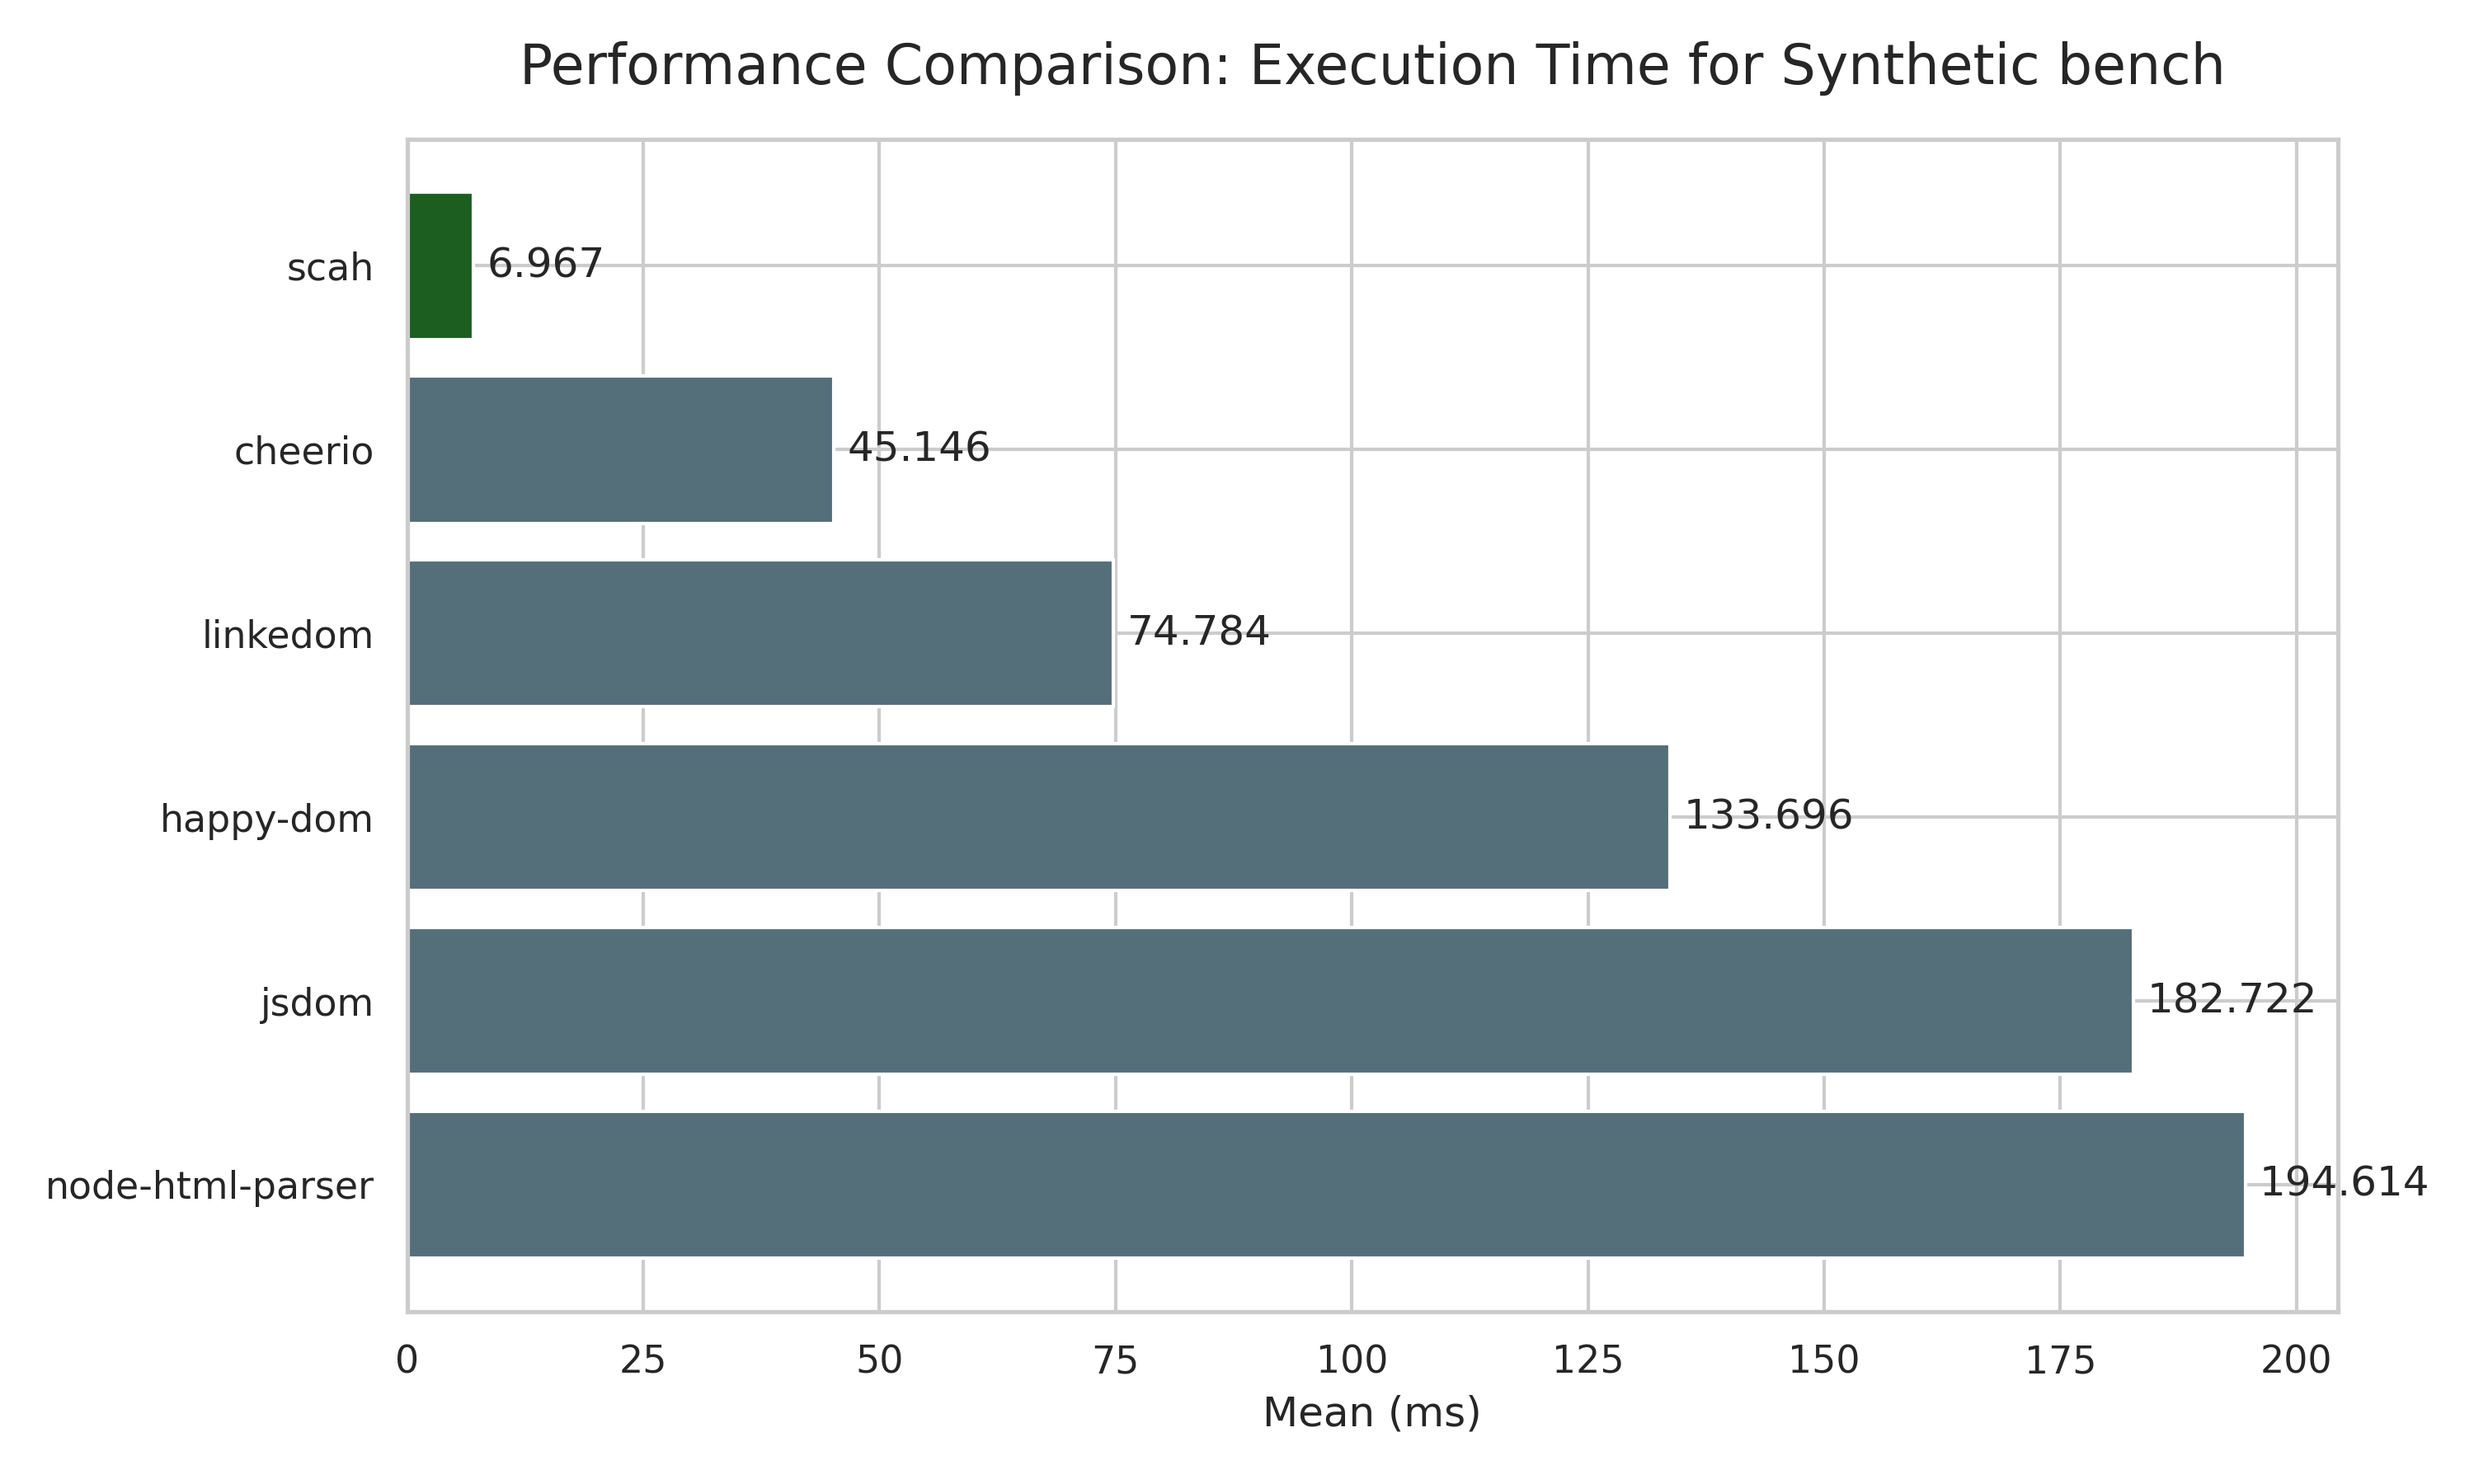
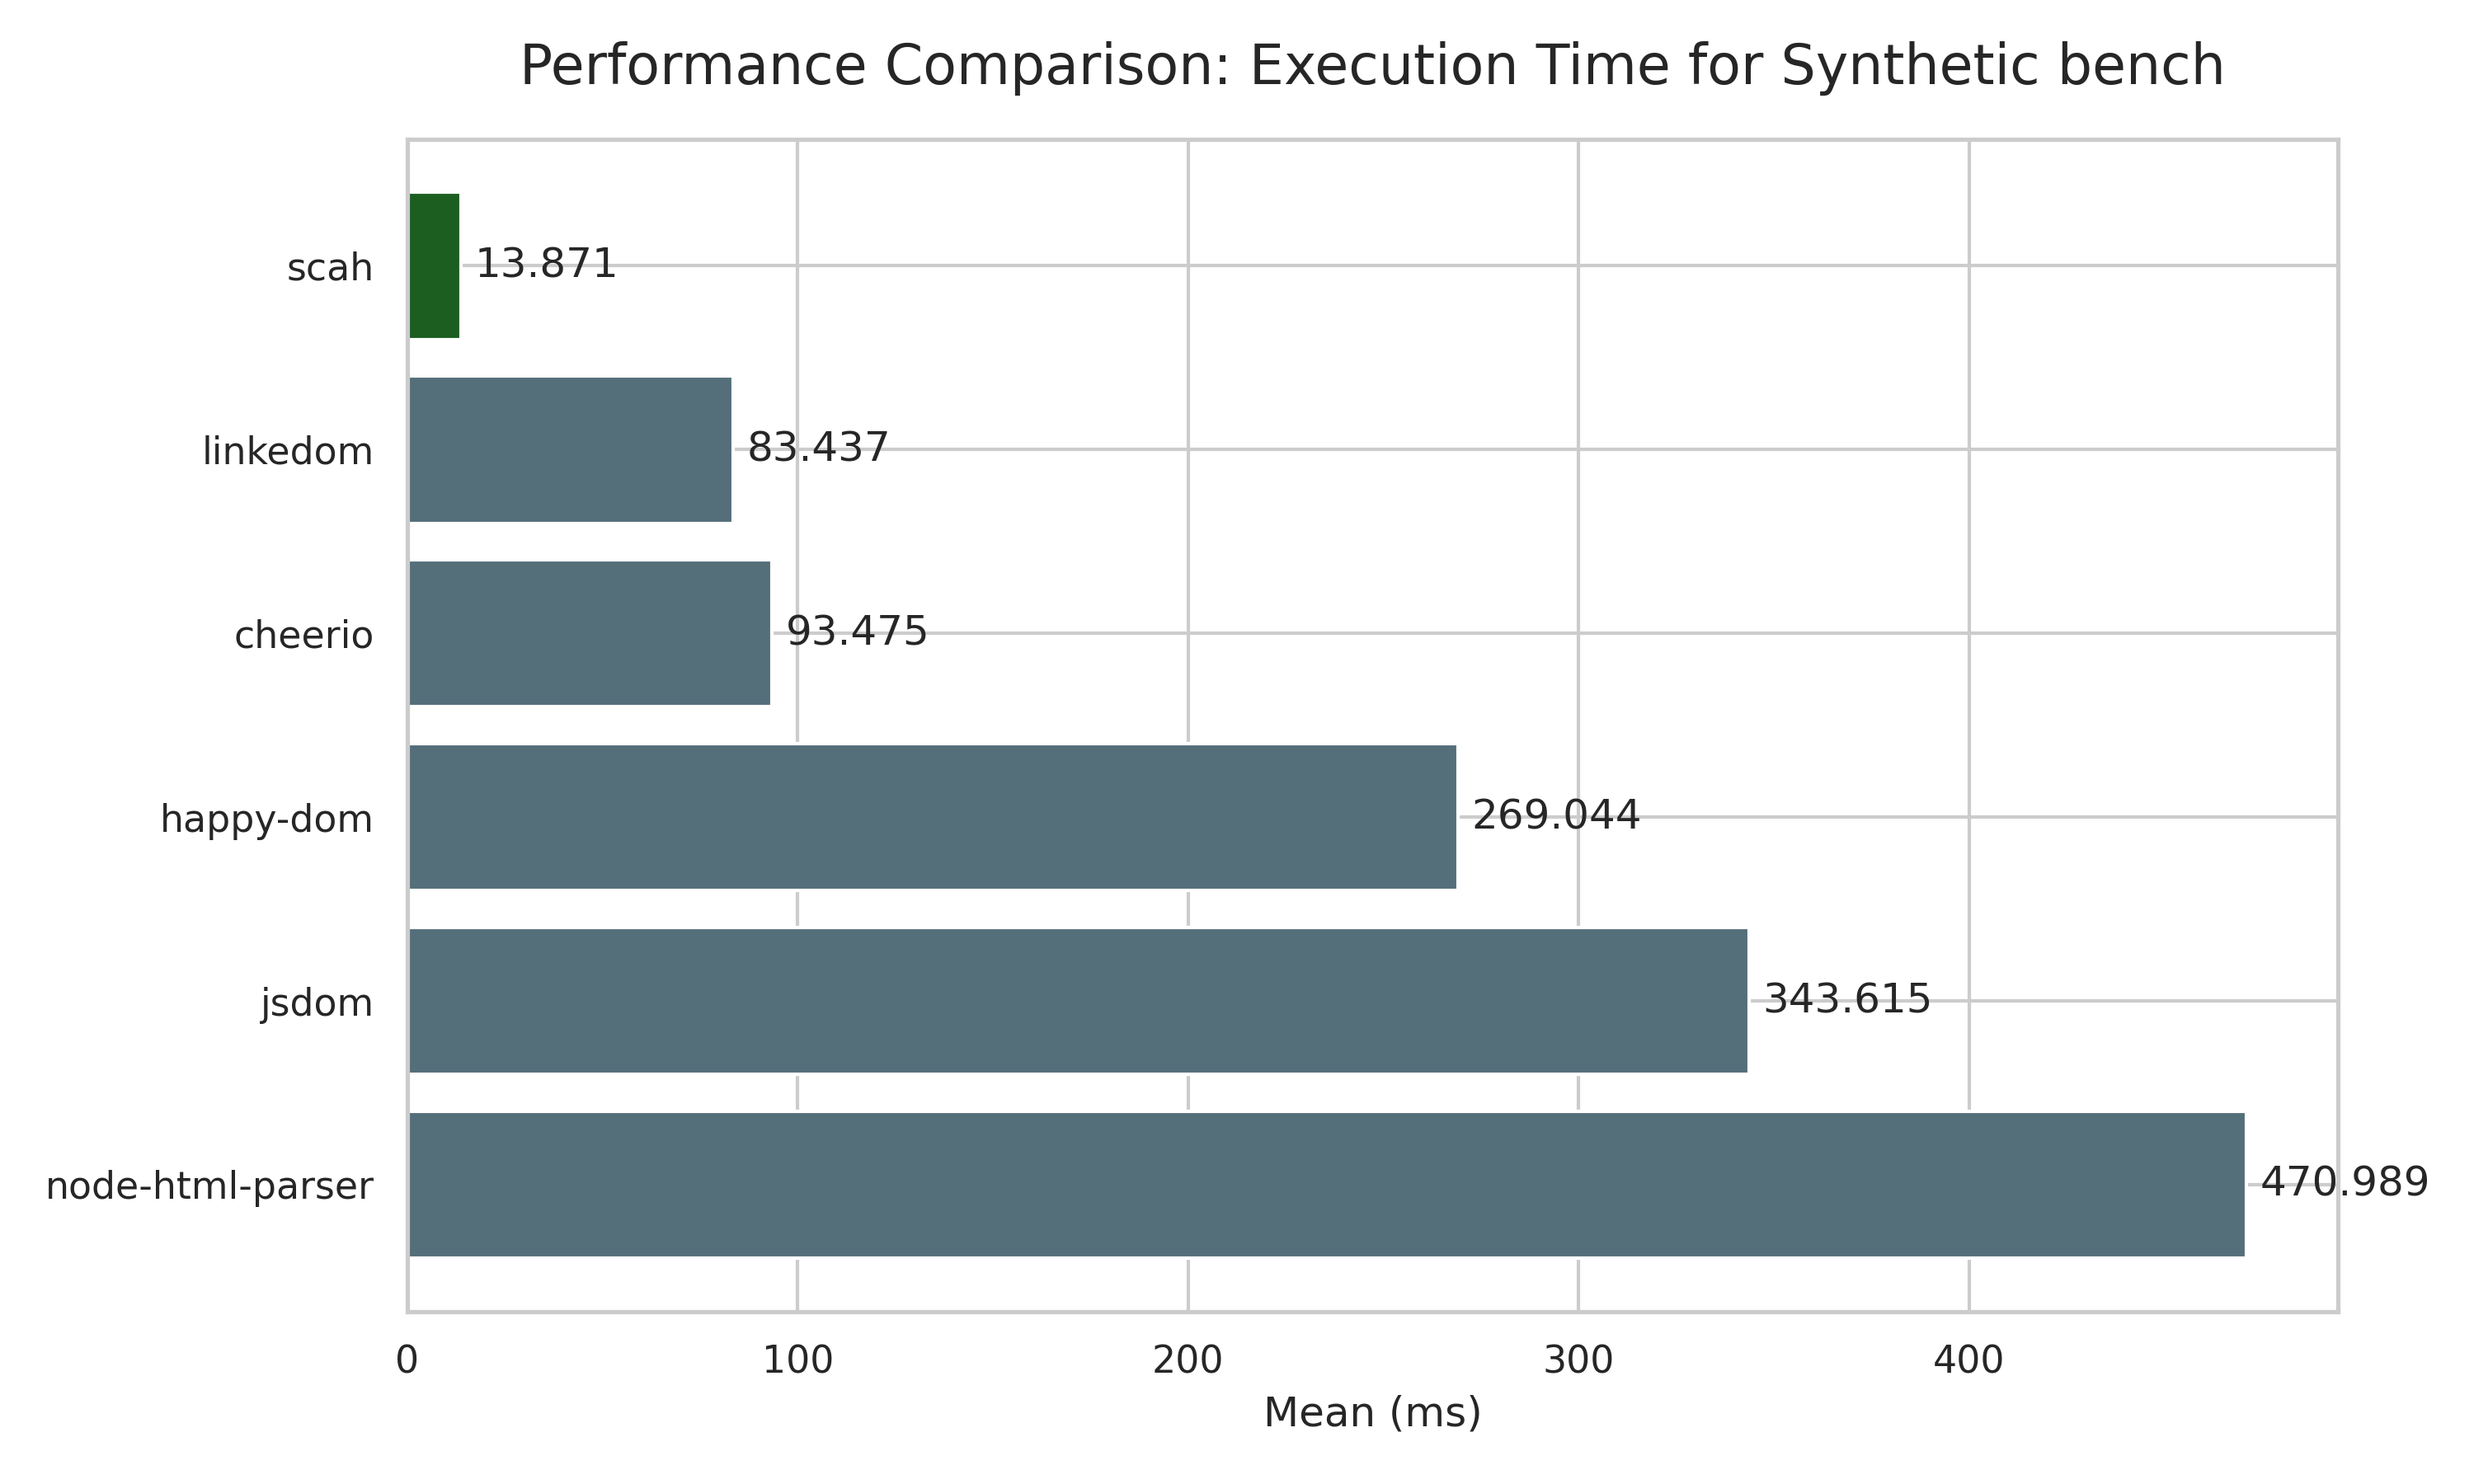
Benchmarks should be uniform for Python, JavaScript, and Rust

diff --git a/crates/bindings/scah-node/benchmark/bench.ts b/crates/bindings/scah-node/benchmark/bench.ts
@@ -24,6 +24,17 @@ type BenchmarkCase = {
   first: (html: string, query: string) => unknown | null | undefined
 }
 
+type ElementSnapshot = {
+  innerHtml?: string | null
+  textContent?: string | null
+}
+
+type NestedProductSnapshot = ElementSnapshot & {
+  title: ElementSnapshot | null
+  rating: ElementSnapshot | null
+  description: ElementSnapshot | null
+}
+
 type MitataRun = {
   name: string
   stats?: {
@@ -313,6 +324,69 @@ function readElement(element: unknown) {
   }
 }
 
+function snapshotElement(element: unknown): ElementSnapshot | null {
+  if (!element || typeof element !== 'object') {
+    return null
+  }
+
+  if ('innerHtml' in element || 'textContent' in element) {
+    return {
+      innerHtml:
+        'innerHtml' in element && typeof element.innerHtml !== 'undefined'
+          ? (element.innerHtml as string | null)
+          : null,
+      textContent:
+        'textContent' in element && typeof element.textContent !== 'undefined'
+          ? (element.textContent as string | null)
+          : null,
+    }
+  }
+
+  if ('innerHTML' in element || 'textContent' in element) {
+    return {
+      innerHtml:
+        'innerHTML' in element && typeof element.innerHTML !== 'undefined'
+          ? (element.innerHTML as string | null)
+          : null,
+      textContent:
+        'textContent' in element && typeof element.textContent !== 'undefined'
+          ? (element.textContent as string | null)
+          : null,
+    }
+  }
+
+  return null
+}
+
+function consumeNestedProducts(products: NestedProductSnapshot[]) {
+  for (const product of products) {
+    readElement(product)
+    readElement(product.title)
+    readElement(product.rating)
+    readElement(product.description)
+  }
+}
+
+function snapshotNestedProducts<T>(
+  products: Iterable<T>,
+  selectChild: (product: T, selector: string) => unknown | null | undefined,
+) {
+  const snapshots: NestedProductSnapshot[] = []
+
+  for (const product of products) {
+    const productSnapshot = snapshotElement(product)
+    snapshots.push({
+      innerHtml: productSnapshot?.innerHtml ?? null,
+      textContent: productSnapshot?.textContent ?? null,
+      title: snapshotElement(selectChild(product, 'h1')),
+      rating: snapshotElement(selectChild(product, '.rating')),
+      description: snapshotElement(selectChild(product, '.description')),
+    })
+  }
+
+  return snapshots
+}
+
 function registerSimpleAllBenchmarks() {
   group('Simple Selection', () => {
     for (const [name, benchmarkCase] of Object.entries(CASES)) {
@@ -367,79 +441,73 @@ function registerNestedBenchmarks() {
         .build()
       const store = parse(PRODUCT_HTML, [compiledQuery])
       const products = store.get('.product') ?? []
-
-      for (const product of products) {
-        readElement(product)
-        consumeElements(product.get('> h1'))
-        consumeElements(product.get('> .rating'))
-        consumeElements(product.get('> .description'))
-      }
+      const snapshots = products.map((product) => ({
+        innerHtml: product.innerHtml,
+        textContent: product.textContent,
+        title: snapshotElement(product.get('> h1')[0]),
+        rating: snapshotElement(product.get('> .rating')[0]),
+        description: snapshotElement(product.get('> .description')[0]),
+      }))
+      consumeNestedProducts(snapshots)
     })
 
     bench('cheerio', () => {
       const $ = cheerio.load(PRODUCT_HTML)
-      for (const product of $('.product').toArray()) {
-        const node = $(product)
-        void node.attr('class')
-        void node.html()
-        void node.text()
-        void node.children('h1').first().text()
-        void node.children('.rating').first().text()
-        void node.children('.description').first().text()
-      }
+      const snapshots = $('.product')
+        .toArray()
+        .map((product) => {
+          const node = $(product)
+          return {
+            innerHtml: node.html(),
+            textContent: node.text(),
+            title: {
+              innerHtml: node.children('h1').first().html(),
+              textContent: node.children('h1').first().text(),
+            },
+            rating: {
+              innerHtml: node.children('.rating').first().html(),
+              textContent: node.children('.rating').first().text(),
+            },
+            description: {
+              innerHtml: node.children('.description').first().html(),
+              textContent: node.children('.description').first().text(),
+            },
+          }
+        })
+      consumeNestedProducts(snapshots)
     })
 
     bench('jsdom', () => {
       const dom = new JSDOM(PRODUCT_HTML)
       const products = Array.from(dom.window.document.querySelectorAll('.product'))
-      for (const product of products) {
-        void product.className
-        void product.innerHTML
-        void product.textContent
-        readElement(product.querySelector(':scope > h1'))
-        readElement(product.querySelector(':scope > .rating'))
-        readElement(product.querySelector(':scope > .description'))
-      }
+      const snapshots = snapshotNestedProducts(products, (product, selector) => product.querySelector(selector))
+      consumeNestedProducts(snapshots)
     })
 
     bench('node-html-parser', () => {
       const root = nhpParse(PRODUCT_HTML)
-      for (const product of root.querySelectorAll('.product')) {
-        void product.getAttribute('class')
-        void product.innerHTML
-        void product.textContent
-        readElement(product.querySelector('h1'))
-        readElement(product.querySelector('.rating'))
-        readElement(product.querySelector('.description'))
-      }
+      const snapshots = snapshotNestedProducts(root.querySelectorAll('.product'), (product, selector) =>
+        product.querySelector(selector),
+      )
+      consumeNestedProducts(snapshots)
     })
 
     bench('linkedom', () => {
       const { document } = linkedomParse(PRODUCT_HTML)
-      for (const product of Array.from(document.querySelectorAll('.product'))) {
-        void product.className
-        void product.innerHTML
-        void product.textContent
-        readElement(product.querySelector(':scope > h1'))
-        readElement(product.querySelector(':scope > .rating'))
-        readElement(product.querySelector(':scope > .description'))
-      }
+      const products = Array.from(document.querySelectorAll('.product'))
+      const snapshots = snapshotNestedProducts(products, (product, selector) => product.querySelector(selector))
+      consumeNestedProducts(snapshots)
     })
 
-    bench('happy-dom', () => {
-      const window = new HappyWindow()
-      window.document.write(PRODUCT_HTML)
-      const products = Array.from(window.document.querySelectorAll('.product'))
-      for (const product of products) {
-        void product.className
-        void product.innerHTML
-        void product.textContent
-        readElement(product.querySelector(':scope > h1'))
-        readElement(product.querySelector(':scope > .rating'))
-        readElement(product.querySelector(':scope > .description'))
-      }
-      window.close()
-    })
+    // Happy DOM doesn't work in this bench
+    // bench('happy-dom', () => {
+    //   const window = new HappyWindow()
+    //   window.document.write(PRODUCT_HTML)
+    //   const products = Array.from(window.document.querySelectorAll('.product'))
+    //   const snapshots = snapshotNestedProducts(products, (product, selector) => product.querySelector(selector))
+    //   consumeNestedProducts(snapshots)
+    //   window.close()
+    // })
   })
 }
 

diff --git a/README.md b/README.md
@@ -177,8 +177,14 @@ store = parse(html, [query])
 ##### Real Html BenchMark ([html.spec.whatwg.org](https://html.spec.whatwg.org/)) (select all `a` tags):
 ![WhatWg Html Spec BenchMark](https://raw.githubusercontent.com/zacharyvmm/scah/main/crates/bindings/scah-python/benches/images/whatwg.png)
 
-##### Structural Html BenchMark (select all `Products`):
-![Structural Html BenchMark](https://raw.githubusercontent.com/zacharyvmm/scah/main/crates/bindings/scah-python/benches/images/structural.png)
+##### Nested Html BenchMark (select all `Products`):
+![Nested Html BenchMark](https://raw.githubusercontent.com/zacharyvmm/scah/main/crates/bindings/scah-python/benches/images/nested.png)
+
+##### Structural Html BenchMark (select all `a` tags):
+![Structural Html BenchMark](https://raw.githubusercontent.com/zacharyvmm/scah/main/crates/bindings/scah-python/benches/images/synthethic.png)
+
+##### First Element Html BenchMark (select first `a`):
+![First Element Html BenchMark](https://raw.githubusercontent.com/zacharyvmm/scah/main/crates/bindings/scah-python/benches/images/synthethic_first.png)
 
 ### Typescript / Javascript
 ```bash
@@ -199,8 +205,14 @@ const store = parse(html, [query]);
 ```
 
 #### Benchmarks
-Synthetic Html BenchMark (select all 5_000 `a` tags):
-![Synthetic Html BenchMark](https://raw.githubusercontent.com/zacharyvmm/scah/main/crates/bindings/scah-node/benchmark/images/synthetic.png)
 ##### Real Html BenchMark ([html.spec.whatwg.org](https://html.spec.whatwg.org/)) (select all `a` tags):
 ![Real Html BenchMark](https://raw.githubusercontent.com/zacharyvmm/scah/main/crates/bindings/scah-node/benchmark/images/whatwg.png)
 
+##### Nested Html BenchMark (select all `a` tags):
+![Nested Html BenchMark](https://raw.githubusercontent.com/zacharyvmm/scah/main/crates/bindings/scah-node/benchmark/images/nested.png)
+
+##### Synthetic Html BenchMark (select all `a` tags):
+![Synthetic Html BenchMark](https://raw.githubusercontent.com/zacharyvmm/scah/main/crates/bindings/scah-node/benchmark/images/synthetic.png)
+
+##### First Element Html BenchMark (select first `a`):
+![First Element Html BenchMark](https://raw.githubusercontent.com/zacharyvmm/scah/main/crates/bindings/scah-node/benchmark/images/synthetic_first.png)
